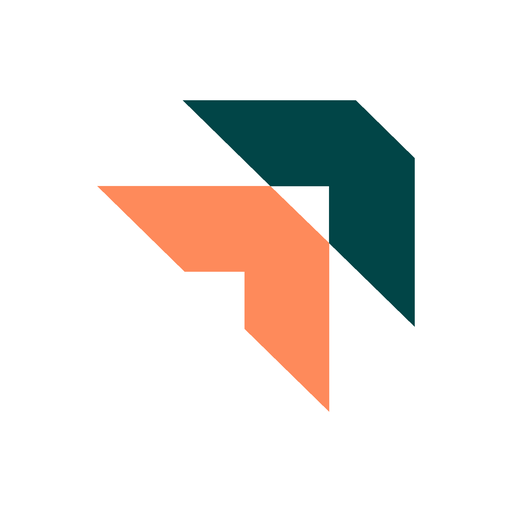
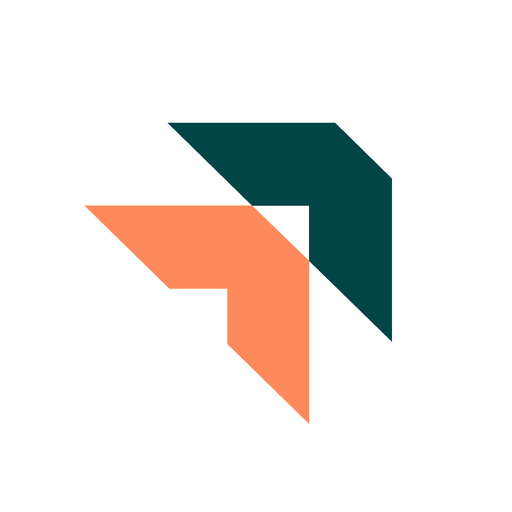
Icône : picto recentré optiquement dans le carré blanc

Changed region(s): [[0.1562, 0.1875, 0.8125, 0.8438]]

diff --git a/index.html b/index.html
@@ -10,8 +10,8 @@
 <meta name="mobile-web-app-capable" content="yes">
 <meta name="apple-mobile-web-app-status-bar-style" content="black-translucent">
 <meta name="apple-mobile-web-app-title" content="Photos Diag">
-<link rel="apple-touch-icon" href="icon-180.png?v=2">
-<link rel="icon" type="image/svg+xml" href="icon.svg?v=2">
+<link rel="apple-touch-icon" href="icon-180.png?v=3">
+<link rel="icon" type="image/svg+xml" href="icon.svg?v=3">
 <link rel="manifest" href="manifest.json">
 <style>
   /* Couleurs ADI : vert canard + orange. Toujours en clair : lisible en plein soleil. */

diff --git a/sw.js b/sw.js
@@ -1,6 +1,6 @@
 // Service worker : permet d'ouvrir l'appli sans réseau.
 // Changer VERSION à chaque mise à jour des fichiers pour forcer le rafraîchissement.
-const VERSION = "photos-diag-v21";
+const VERSION = "photos-diag-v22";
 const FILES = ["./", "./index.html", "./config.js", "./manifest.json", "./icon-180.png", "./icon-192.png", "./icon-512.png", "./icon.svg", "./picto.svg"];
 
 self.addEventListener("install", (e) => {
